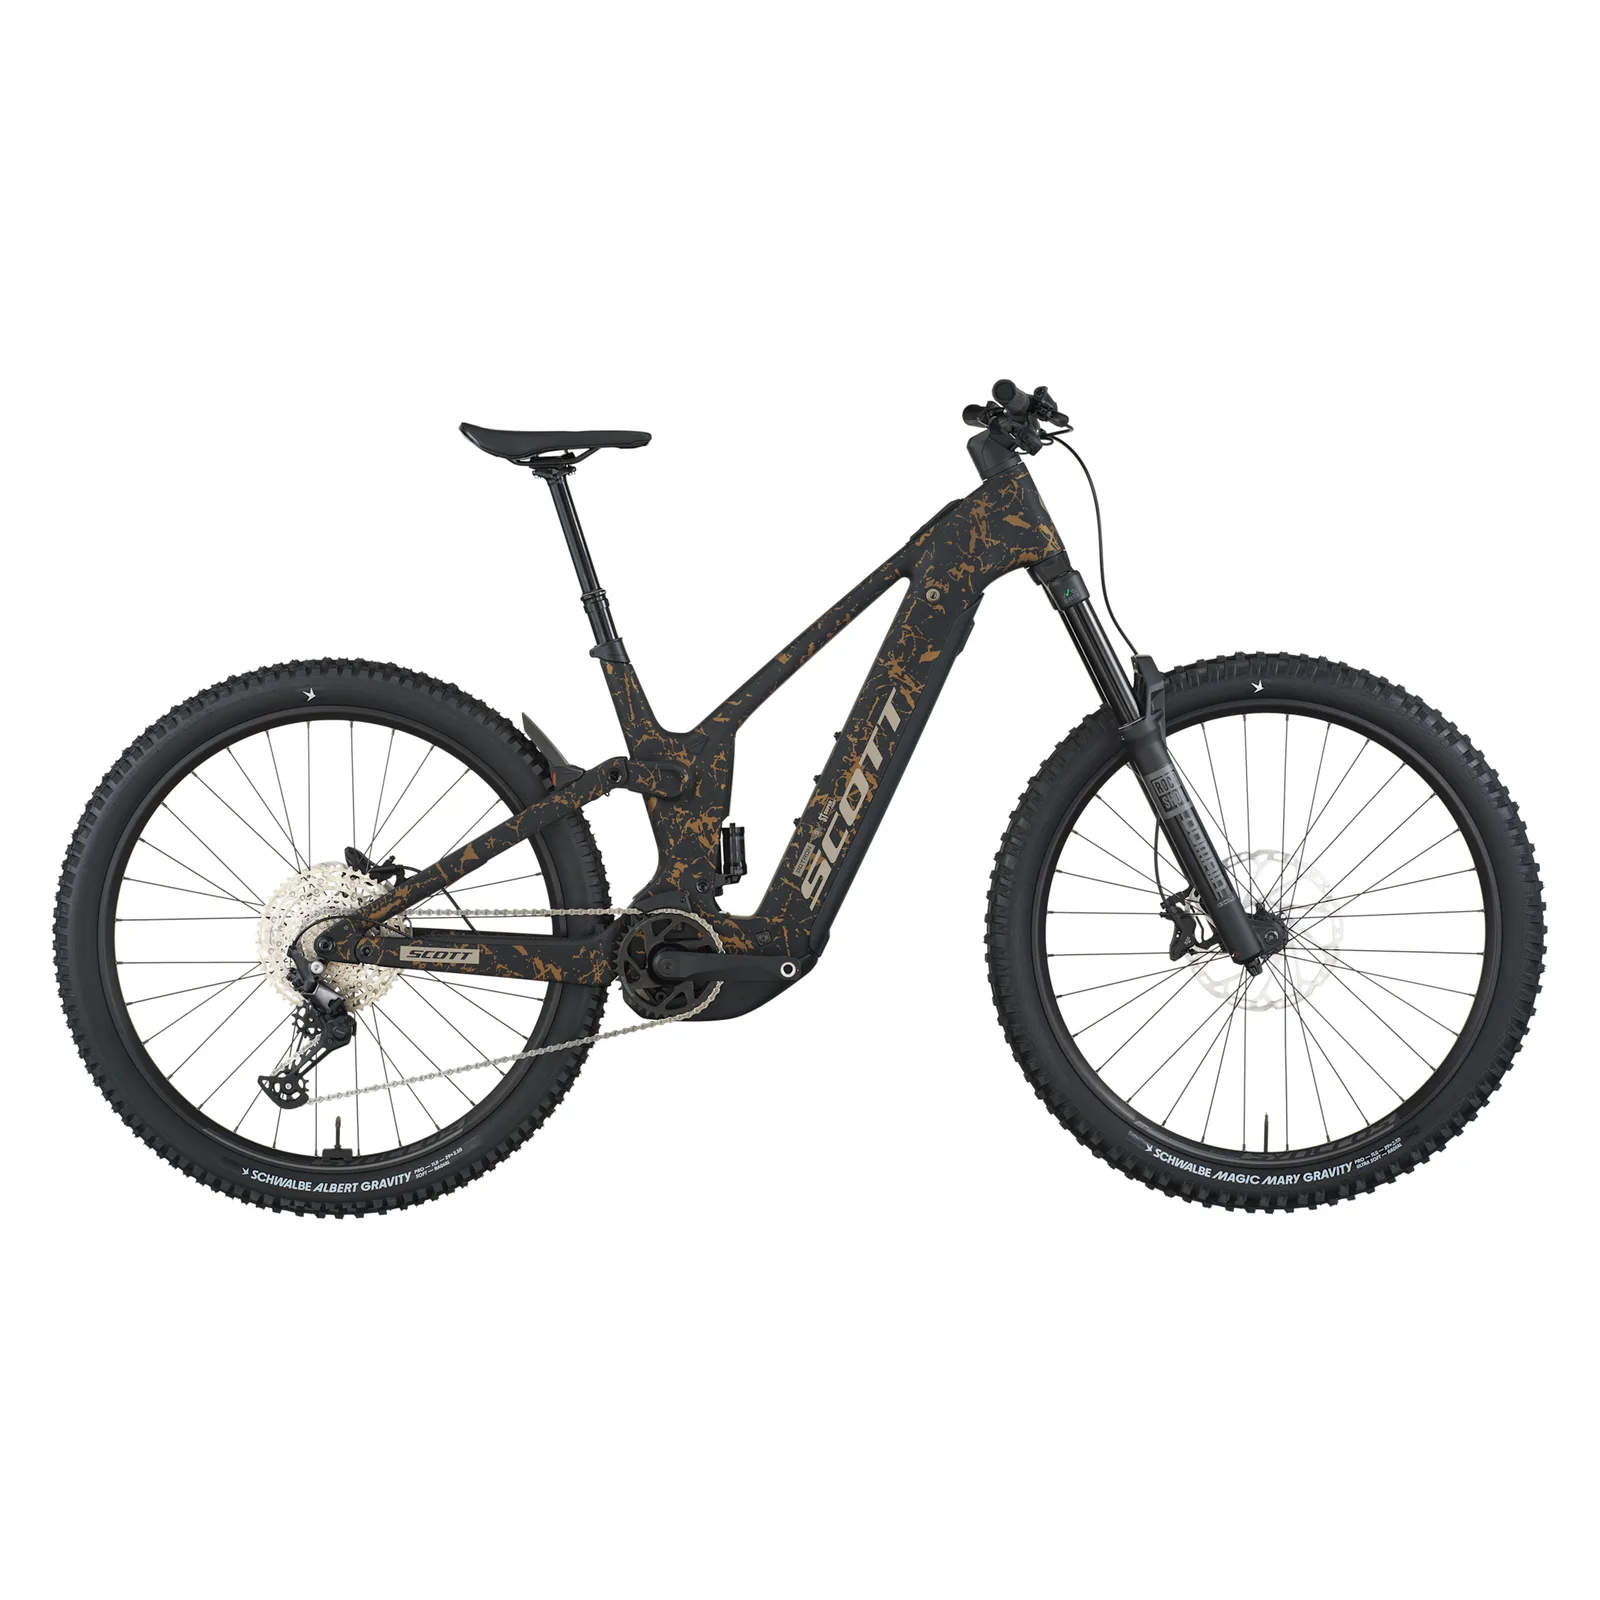
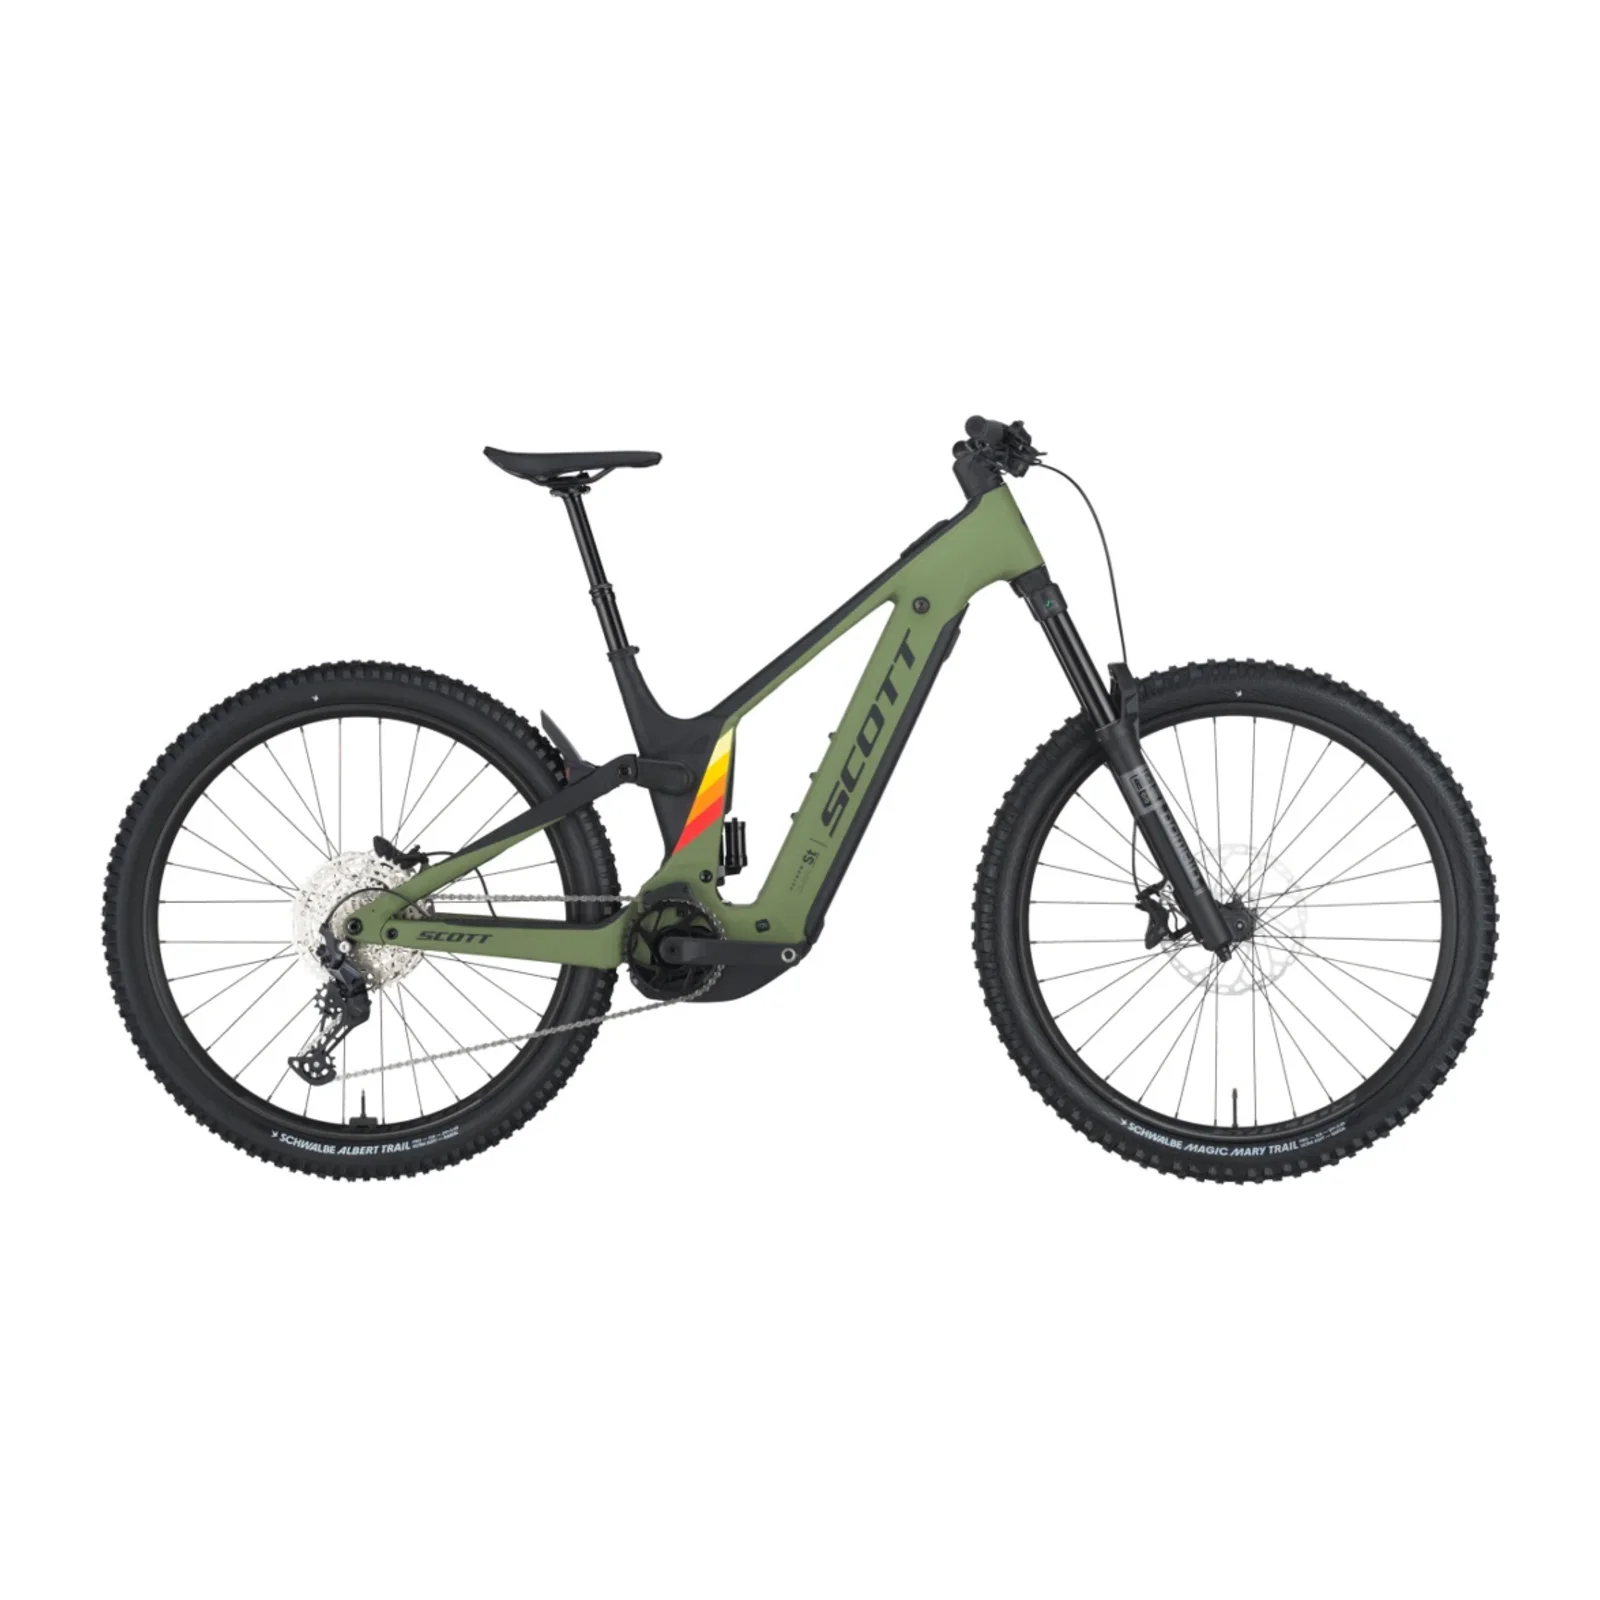
fix: Patron ST 910 správná 2025 barva (Olive Green)
Původní foto bylo černo-bronzové splatter (jiné provedení). Nahrazeno
oficiální 2025 fotkou z nevixu — olivová/military zelená s retro pruhem.

Changed region(s): [[0.0312, 0.2188, 0.9688, 0.7812], [0.4688, 0.4062, 0.5, 0.4375]]

diff --git a/src/data/products.ts b/src/data/products.ts
@@ -620,8 +620,8 @@ export const PRODUCTS: Product[] = [
     ],
     gender: "U",
     useCase: "performance",
-    color: "Black / Bronze",
-    colorFamily: "black",
+    color: "Olive Green",
+    colorFamily: "green",
     variants: [
       { size: "S", isInStock: false, availability: "Na objednávku" },
       { size: "M", isInStock: true, availability: "Skladem" },
